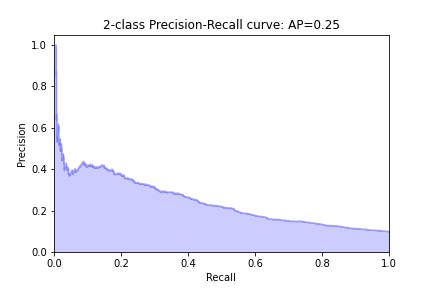
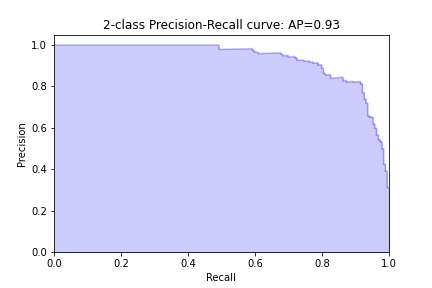
Add files via upload

diff --git a/train.py b/train.py
@@ -14,7 +14,7 @@ from absl import logging
 FLAGS = flags.FLAGS
 flags.DEFINE_integer("shuffle_buffer_size", 10000,
                      "buffer size for pseudo shuffle")
-flags.DEFINE_integer("batch_size", 128, "batch_size")
+flags.DEFINE_integer("batch_size", 15, "batch_size")
 flags.DEFINE_integer("isize", 32, "input size")
 flags.DEFINE_string("ckpt_dir", 'ckpt', "checkpoint folder")
 flags.DEFINE_integer("nz", 100, "latent dims")
@@ -24,7 +24,7 @@ flags.DEFINE_integer("ngf", 64, "number of generator's filters")
 flags.DEFINE_integer("extralayers", 0, "extralayers for both G and D")
 flags.DEFINE_list("encdims", None, "Layer dimensions of the encoder and in reverse of the decoder."
                                    "If given, dense encoder and decoders are used.")
-flags.DEFINE_integer("niter",20,"number of training epochs")
+flags.DEFINE_integer("niter",90,"number of training epochs")
 flags.DEFINE_float("lr", 2e-4, "learning rate")
 flags.DEFINE_float("w_adv", 1., "Adversarial loss weight")
 flags.DEFINE_float("w_con", 50., "Reconstruction loss weight")
@@ -52,6 +52,9 @@ def batch_resize(imgs, size: tuple):
         img_out[i] = cv2.resize(imgs[i], size, interpolation=cv2.INTER_CUBIC)
     return img_out
 
+def process(image,label):
+    image = tf.cast(image/255. ,tf.float32)
+    return image,label
 
 def main(_):
     show_img = False
@@ -159,6 +162,9 @@ def main(_):
           seed=123,
           image_size=(img_height, img_width),
           batch_size=batch_size)
+        
+        train_dataset = train_dataset.map(process)
+        
         if TRAIN == False:
             if show_img==True:
                 batch_size_=opt.batch_size
@@ -182,6 +188,8 @@ def main(_):
           image_size=(img_height, img_width),
           batch_size=batch_size_)
         
+        test_dataset = test_dataset.map(process)
+        
         infer_data_dir = opt.dataset_infer
         print(infer_data_dir)
         print(batch_size_)
@@ -193,6 +201,8 @@ def main(_):
           seed=123,
           image_size=(img_height, img_width),
           batch_size=batch_size_)
+        
+        infer_dataset = infer_dataset.map(process)
         
         infer_data_abnormal_dir = opt.dataset_infer_abnormal
         print(infer_data_abnormal_dir)
@@ -206,7 +216,7 @@ def main(_):
           image_size=(img_height, img_width),
           batch_size=batch_size_)
     
-    
+        infer_dataset_abnormal = infer_dataset_abnormal.map(process)
     
     ganomaly = GANomaly(opt,
                         train_dataset,
@@ -222,7 +232,7 @@ def main(_):
         if show_img:
             SHOW_MAX_NUM = 5
         else:
-            SHOW_MAX_NUM = 1500
+            SHOW_MAX_NUM = 1900
         positive_loss = ganomaly.infer(infer_dataset,SHOW_MAX_NUM,show_img,'normal')
         defeat_loss = ganomaly.infer(infer_dataset_abnormal,SHOW_MAX_NUM,show_img,'abnormal')
         if not show_img:

diff --git a/model.py b/model.py
@@ -453,7 +453,7 @@ class GANomaly(GANRunner):
         minFrom= tf.math.reduce_min(tensor)
         maxFrom= tf.math.reduce_max(tensor)
         minTo = 0
-        maxTo=1
+        maxTo = 1
         return minTo + (maxTo - minTo) * ((tensor - minFrom) / (maxFrom - minFrom))
     
     def infer(self, test_dataset,SHOW_MAX_NUM,show_img,data_type):
@@ -476,10 +476,13 @@ class GANomaly(GANRunner):
             self.pred_fake, self.feat_fake = self.D(self.gen_img)
             g_loss = self.g_loss()
             #g_loss = 0.0
-            
-            images = self.renormalize(images)
+            #print("input")
+            #print(self.input)
+            #print("gen_img")
+            #print(self.gen_img)
+            images = self.renormalize(self.input)
             fake_img = self.renormalize(self.gen_img)
-            
+            #fake_img = self.gen_img
             images = images.cpu().numpy()
             fake_img = fake_img.cpu().numpy()
             #fake_img = self.gen_img
@@ -510,7 +513,8 @@ class GANomaly(GANRunner):
         for images2, row in zip([images,outputs], axes):     
             for img, ax in zip(images2, row):
                 #img = img[:,:,::-1].transpose((2,1,0))
-                ax.imshow(img[:,:])
+                #print(img)
+                ax.imshow(img)
                 ax.get_xaxis().set_visible(False)
                 ax.get_yaxis().set_visible(False)
         return plt
